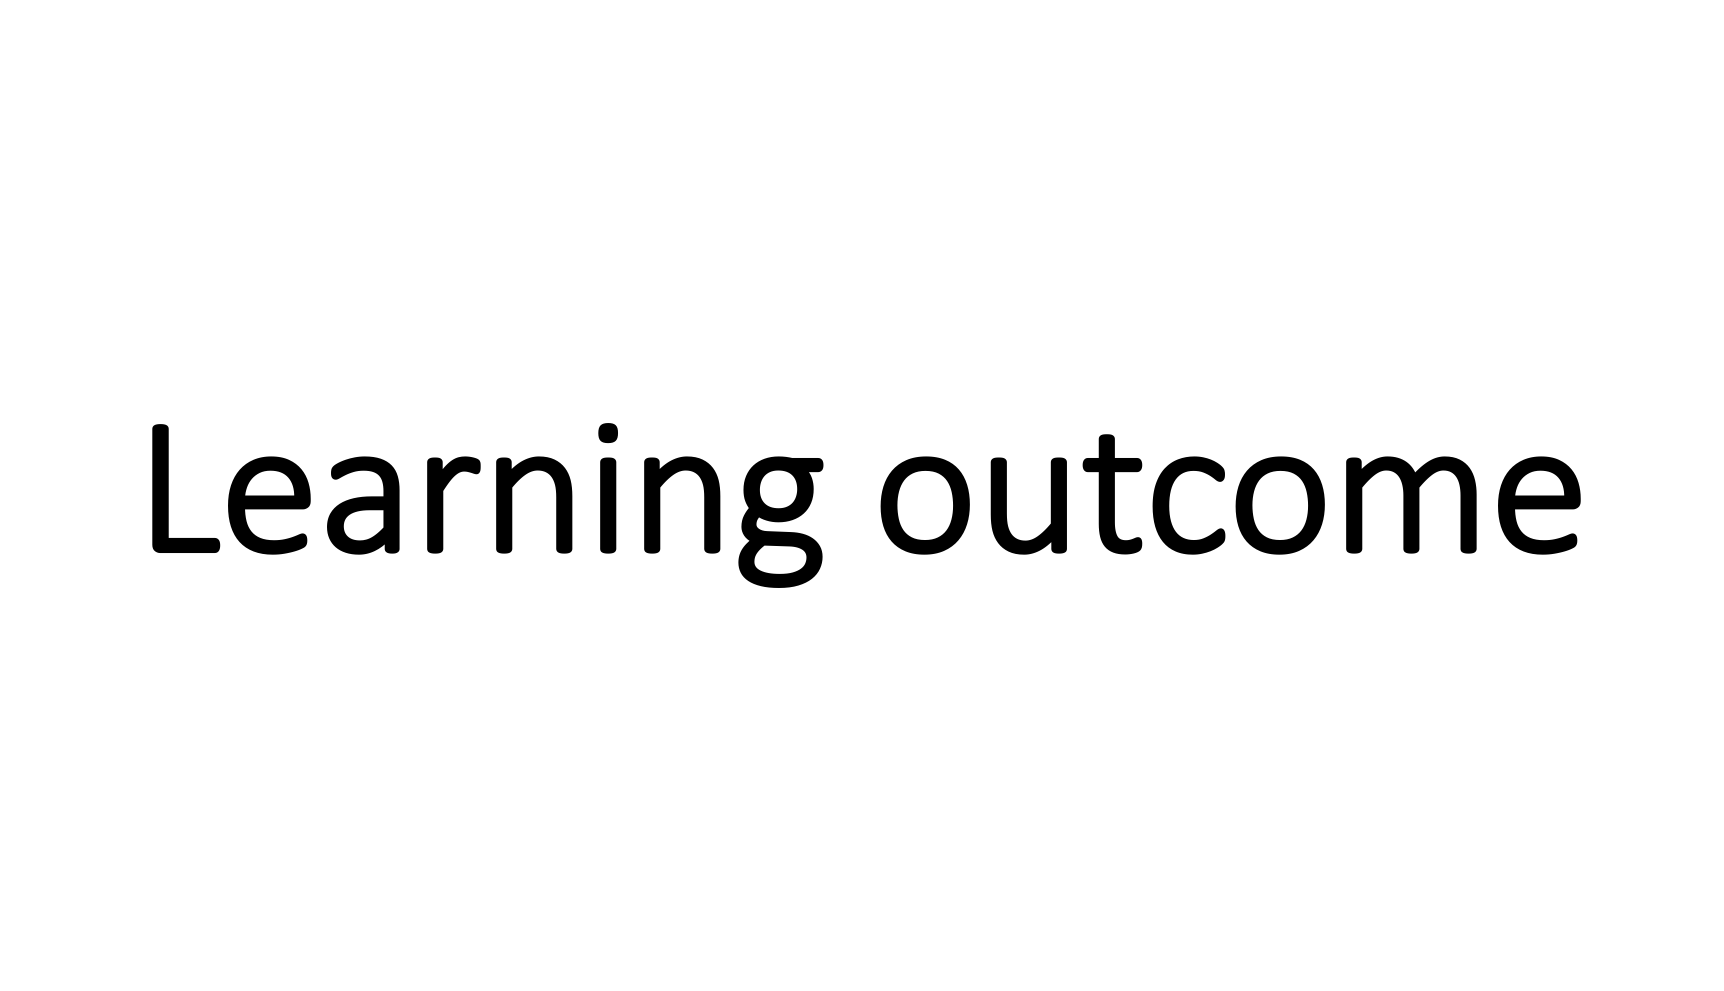
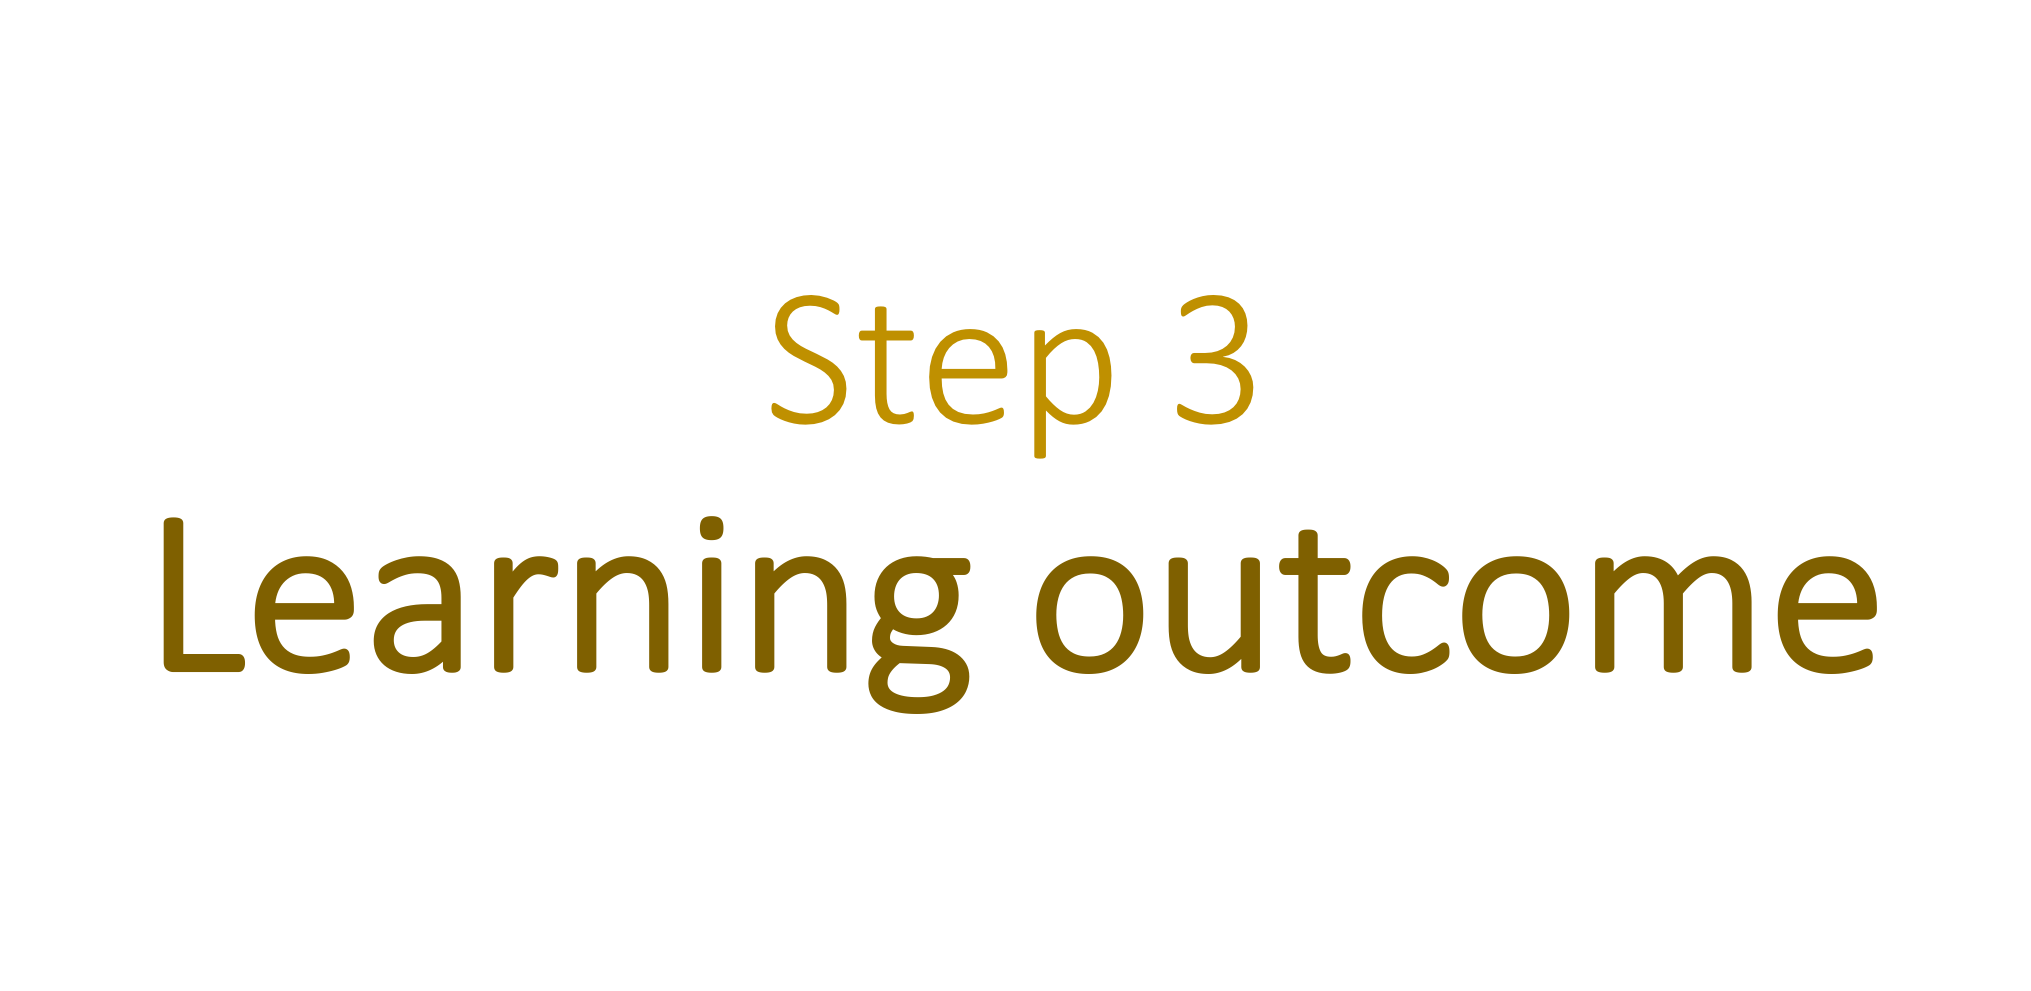
larger font size, not display nav-tab, and change to submit

Changed region(s): [[0.0615, 0.3027, 0.9223, 0.7265], [0.5841, 0.3027, 0.6148, 0.4238]]

diff --git a/index.html b/index.html
@@ -26,7 +26,7 @@
     <div class="well">
       <b>ATTENTION:</b> During the whole experiment, please <b>DO NOT</b> refresh the browser. Otherwise, all data will be lost. 
     </div>
-    <ul class="nav nav-tabs">
+    <ul class="nav nav-tabs" style="display: none;">
       <li class="active not-active"><a data-toggle="tab" href="#home">Home</a></li>
       <li class="not-active"><a data-toggle="tab" href="#demo1">Team Member #1</a></li>
       <li class="not-active"><a data-toggle="tab" href="#demo2">Team Member #2</a></li>
@@ -37,13 +37,13 @@
     <div class="tab-content">
 
       <div id="home" class="tab-pane fade in active">
-        <h4>Welcome</h4>
-        <p>
+        <h3>Welcome</h3>
+        <p style="font-size:16px;">
           Welcome to participate in this experiment. The whole experiment consists of four sessions and each will last for around 5min. In each session, you are required to answer questions upon finishing the designated tasks. Please submit your answers immediatly after you finish the questions by clicking <button type="button" class="btn btn-primary">Submit</button>. Once the experiment is finished, an information window containing the unique ID will pop up.
         </p>
 
-        <h4>Teaching robots to play sports</h4>
-        <p>
+        <h3>Teaching robots to play sports</h3>
+        <p style="font-size:16px;">
           Now assuming you have a team of four robots for the robot Olympic game. In order to get in the competition, you have to teach these robots how to play different sports. So you recruit professional coaches to help teach and train them. Your task is to rate your team members' performances during the teaching process, and evaluate whether they are good learners. 
         </p>
 
@@ -82,7 +82,7 @@
           </div>
         </div>
 
-        <p>
+        <p style="font-size:16px;">
         For each team member (the robot), it needs to study one sport skill in three steps. First, a professional coach will demonstrate how to do that sport skill. Second, after the demonstration, the robot needs to learn from the sport demonstrations in a simulation environment. During this process, you need to rate the robot's learning behaviors. Finally, the robot needs to perform the skill by itself so that you can evaluate whether it has successfully obtained the skill. 
         </p>
 
@@ -104,7 +104,7 @@
           </div>
         </div>
 
-        <p>
+        <p style="font-size:16px;">
           Good, you can start to teach the robots right now. Please click next to start. 
         </p>
 
@@ -130,21 +130,28 @@
             </div>
           </div>
           <div class="col-xs-9">
-            <h4>Step 1: Coach demonstration</h4>
+            <h3>Step 1: Coach demonstration</h3>
             <div class="well">
-              <p>Click to watch the coach demonstration to see what the sport the robot needs to learn.</p>
+              <p style="font-size:16px;">
+                Click to watch the coach demonstration to see what the sport the robot needs to learn.
+              </p>
               <button type="button" class="btn btn-primary" data-toggle="modal" data-target="#div_watch_1" onclick='videojs("vid_real_1").play();'> Watch the coach's demonstration</button>
             </div>
-            <h4>Step 2: Teaching robot</h4>
+            <h3>Step 2: Teaching robot</h3>
             <div class="well">
-              <p>Now click to teach the robot to learn the sport skill demonstrated by the coach in a simulator. You can teach the robot for several times until you think the teaching can be terminated.</p>
+              <p style="font-size:16px;">
+                Now click to teach the robot to learn the sport skill demonstrated by the coach in a simulator. You can teach the robot for several times until you think the teaching can be terminated. 
+              </p> 
               <button type="button" class="btn btn-primary" data-toggle="modal" data-target="#div_sim_1" onclick='videojs("vid_sim_1").play();'> Teach the robot by using the demonstration </button>
             </div>
 
 
-            <h4>Step 3: Rating robot learning process</h4>
+            <h3>Step 3: Rating robot learning process</h3>
             <div class="well">
-              <p>According to the above teaching, please rate the robot learning performances. You can re-watch the teaching process.</p> <button type="button" class="btn btn-info" data-toggle="modal" data-target="#div_sim_1" onclick='videojs("vid_sim_1").play();'> Re-watching </button>
+              <p style="font-size:16px;">
+                According to the above teaching, please rate the robot learning performances. You can re-watch the teaching process.
+              </p> 
+              <button type="button" class="btn btn-info" data-toggle="modal" data-target="#div_sim_1" onclick='videojs("vid_sim_1").play();'> Re-watching </button>
               <div id="panel_question_1_1" class="embed-responsive embed-responsive-16by9">
                 <!--
                 <iframe class="embed-responsive-item" src="https://ust.az1.qualtrics.com/jfe/form/SV_2cAjHJzZDfkFCvP" allowfullscreen></iframe>
@@ -152,9 +159,11 @@
               </div>
             </div>
 
-            <h4>Step 4: Checking learning outcome</h4>
+            <h3>Step 4: Checking learning outcome</h3>
             <div class="well">
-              <p>Click to check the robot's learning outcome. Please evaluate the robot's learning abilities</p>
+              <p style="font-size:16px;">
+                Click to check the robot's learning outcome. Please evaluate the robot's learning abilities
+              </p>
               <button type="button" class="btn btn-primary" data-toggle="modal" data-target="#div_sim_1" onclick='videojs("vid_sim_1").play();'> Check the robot learning outcomes </button>
               <div id="panel_question_1_2" class="embed-responsive embed-responsive-16by9">
                 <!--
@@ -185,21 +194,28 @@
             </div>
           </div>
           <div class="col-xs-9">
-            <h4>Step 1: Coach demonstration</h4>
+            <h3>Step 1: Coach demonstration</h3>
             <div class="well">
-              <p>Click to watch the coach demonstration to see what the sport the robot needs to learn.</p>
+              <p style="font-size:16px;">
+                Click to watch the coach demonstration to see what the sport the robot needs to learn.
+              </p>
               <button type="button" class="btn btn-primary" data-toggle="modal" data-target="#div_watch_1" onclick='videojs("vid_real_2").play();'> Watch the coach's demonstration</button>
             </div>
-            <h4>Step 2: Teaching robot</h4>
+            <h3>Step 2: Teaching robot</h3>
             <div class="well">
-              <p>Now click to teach the robot to learn the sport skill demonstrated by the coach in a simulator. You can teach the robot for several times until you think the teaching can be terminated.</p>
+              <p style="font-size:16px;">
+                Now click to teach the robot to learn the sport skill demonstrated by the coach in a simulator. You can teach the robot for several times until you think the teaching can be terminated.
+              </p>
               <button type="button" class="btn btn-primary" data-toggle="modal" data-target="#div_sim_2" onclick='videojs("vid_sim_2").play();'> Teach the robot by using the demonstration </button>
             </div>
 
 
-            <h4>Step 3: Rating robot learning process</h4>
+            <h3>Step 3: Rating robot learning process</h3>
             <div class="well">
-              <p>According to the above teaching, please rate the robot learning performances. You can re-watch the teaching process.</p> <button type="button" class="btn btn-info" data-toggle="modal" data-target="#div_sim_2" onclick='videojs("vid_sim_2").play();'> Re-watching </button>
+              <p style="font-size:16px;">
+                According to the above teaching, please rate the robot learning performances. You can re-watch the teaching process.
+              </p> 
+              <button type="button" class="btn btn-info" data-toggle="modal" data-target="#div_sim_2" onclick='videojs("vid_sim_2").play();'> Re-watching </button>
               <div id="panel_question_2_1" class="embed-responsive embed-responsive-16by9">
                 <!--
                 <iframe class="embed-responsive-item" src="https://ust.az1.qualtrics.com/jfe/form/SV_2cAjHJzZDfkFCvP" allowfullscreen></iframe>
@@ -207,9 +223,11 @@
               </div>
             </div>
 
-            <h4>Step 4: Checking learning outcome</h4>
+            <h3>Step 4: Checking learning outcome</h3>
             <div class="well">
-              <p>Click to check the robot's learning outcome. Please evaluate the robot's learning abilities</p>
+              <p style="font-size:16px;">
+                Click to check the robot's learning outcome. Please evaluate the robot's learning abilities
+              </p>
               <button type="button" class="btn btn-primary" data-toggle="modal" data-target="#div_sim_2" onclick='videojs("vid_sim_2").play();'> Check the robot learning outcomes </button>
               <div id="panel_question_2_2" class="embed-responsive embed-responsive-16by9">
                 <!--
@@ -240,21 +258,28 @@
             </div>
           </div>
           <div class="col-xs-9">
-            <h4>Step 1: Coach demonstration</h4>
+            <h3>Step 1: Coach demonstration</h3>
             <div class="well">
-              <p>Click to watch the coach demonstration to see what the sport the robot needs to learn.</p>
+              <p style="font-size:16px;">
+                Click to watch the coach demonstration to see what the sport the robot needs to learn.
+              </p>
               <button type="button" class="btn btn-primary" data-toggle="modal" data-target="#div_watch_3" onclick='videojs("vid_real_3").play();'> Watch the coach's demonstration</button>
             </div>
-            <h4>Step 2: Teaching robot</h4>
+            <h3>Step 2: Teaching robot</h3>
             <div class="well">
-              <p>Now click to teach the robot to learn the sport skill demonstrated by the coach in a simulator. You can teach the robot for several times until you think the teaching can be terminated.</p>
+              <p style="font-size:16px;">
+                Now click to teach the robot to learn the sport skill demonstrated by the coach in a simulator. You can teach the robot for several times until you think the teaching can be terminated.
+              </p>
               <button type="button" class="btn btn-primary" data-toggle="modal" data-target="#div_sim_3" onclick='videojs("vid_sim_3").play();'> Teach the robot by using the demonstration </button>
             </div>
 
 
-            <h4>Step 3: Rating robot learning process</h4>
+            <h3>Step 3: Rating robot learning process</h3>
             <div class="well">
-              <p>According to the above teaching, please rate the robot learning performances. You can re-watch the teaching process.</p> <button type="button" class="btn btn-info" data-toggle="modal" data-target="#div_sim_3" onclick='videojs("vid_sim_3").play();'> Re-watching </button>
+              <p style="font-size:16px;">
+                According to the above teaching, please rate the robot learning performances. You can re-watch the teaching process.
+              </p> 
+              <button type="button" class="btn btn-info" data-toggle="modal" data-target="#div_sim_3" onclick='videojs("vid_sim_3").play();'> Re-watching </button>
               <div id="panel_question_3_1" class="embed-responsive embed-responsive-16by9">
                 <!--
                 <iframe class="embed-responsive-item" src="https://ust.az1.qualtrics.com/jfe/form/SV_2cAjHJzZDfkFCvP" allowfullscreen></iframe>
@@ -262,9 +287,11 @@
               </div>
             </div>
 
-            <h4>Step 4: Checking learning outcome</h4>
+            <h3>Step 4: Checking learning outcome</h3>
             <div class="well">
-              <p>Click to check the robot's learning outcome. Please evaluate the robot's learning abilities</p>
+              <p style="font-size:16px;">
+                Click to check the robot's learning outcome. Please evaluate the robot's learning abilities
+              </p>
               <button type="button" class="btn btn-primary" data-toggle="modal" data-target="#div_sim_3" onclick='videojs("vid_sim_3").play();'> Check the robot learning outcomes </button>
               <div id="panel_question_3_2" class="embed-responsive embed-responsive-16by9">
                 <!--
@@ -295,21 +322,28 @@
             </div>
           </div>
           <div class="col-xs-9">
-            <h4>Step 1: Coach demonstration</h4>
+            <h3>Step 1: Coach demonstration</h3>
             <div class="well">
-              <p>Click to watch the coach demonstration to see what the sport the robot needs to learn.</p>
+              <p style="font-size:16px;">
+                Click to watch the coach demonstration to see what the sport the robot needs to learn.
+              </p>
               <button type="button" class="btn btn-primary" data-toggle="modal" data-target="#div_watch_4" onclick='videojs("vid_real_4").play();'> Watch the coach's demonstration</button>
             </div>
-            <h4>Step 2: Teaching robot</h4>
+            <h3>Step 2: Teaching robot</h3>
             <div class="well">
-              <p>Now click to teach the robot to learn the sport skill demonstrated by the coach in a simulator. You can teach the robot for several times until you think the teaching can be terminated.</p>
+              <p style="font-size:16px;">
+                Now click to teach the robot to learn the sport skill demonstrated by the coach in a simulator. You can teach the robot for several times until you think the teaching can be terminated.
+              </p>
               <button type="button" class="btn btn-primary" data-toggle="modal" data-target="#div_sim_4" onclick='videojs("vid_sim_4").play();'> Teach the robot by using the demonstration </button>
             </div>
 
 
-            <h4>Step 3: Rating robot learning process</h4>
+            <h3>Step 3: Rating robot learning process</h3>
             <div class="well">
-              <p>According to the above teaching, please rate the robot learning performances. You can re-watch the teaching process.</p> <button type="button" class="btn btn-info" data-toggle="modal" data-target="#div_sim_4" onclick='videojs("vid_sim_4").play();'> Re-watching </button>
+              <p style="font-size:16px;">
+                According to the above teaching, please rate the robot learning performances. You can re-watch the teaching process.
+              </p> 
+              <button type="button" class="btn btn-info" data-toggle="modal" data-target="#div_sim_4" onclick='videojs("vid_sim_4").play();'> Re-watching </button>
               <div id="panel_question_4_1" class="embed-responsive embed-responsive-16by9">
                 <!--
                 <iframe class="embed-responsive-item" src="https://ust.az1.qualtrics.com/jfe/form/SV_2cAjHJzZDfkFCvP" allowfullscreen></iframe>
@@ -317,9 +351,11 @@
               </div>
             </div>
 
-            <h4>Step 4: Checking learning outcome</h4>
+            <h3>Step 4: Checking learning outcome</h3>
             <div class="well">
-              <p>Click to check the robot's learning outcome. Please evaluate the robot's learning abilities</p>
+              <p style="font-size:16px;">
+                Click to check the robot's learning outcome. Please evaluate the robot's learning abilities
+              </p>
               <button type="button" class="btn btn-primary" data-toggle="modal" data-target="#div_sim_4" onclick='videojs("vid_sim_4").play();'> Check the robot learning outcomes </button>
               <div id="panel_question_4_2" class="embed-responsive embed-responsive-16by9">
                 <!--
@@ -329,7 +365,7 @@
             </div>
           </div>
         </div>
-        
+
         <ul class="pager"> <li>
           <a id="pager-4-prev" href="#demo3">Previous</a>
           <a id="pager-4" href="" data-toggle="modal" data-target="#finishModal">Next</a>
